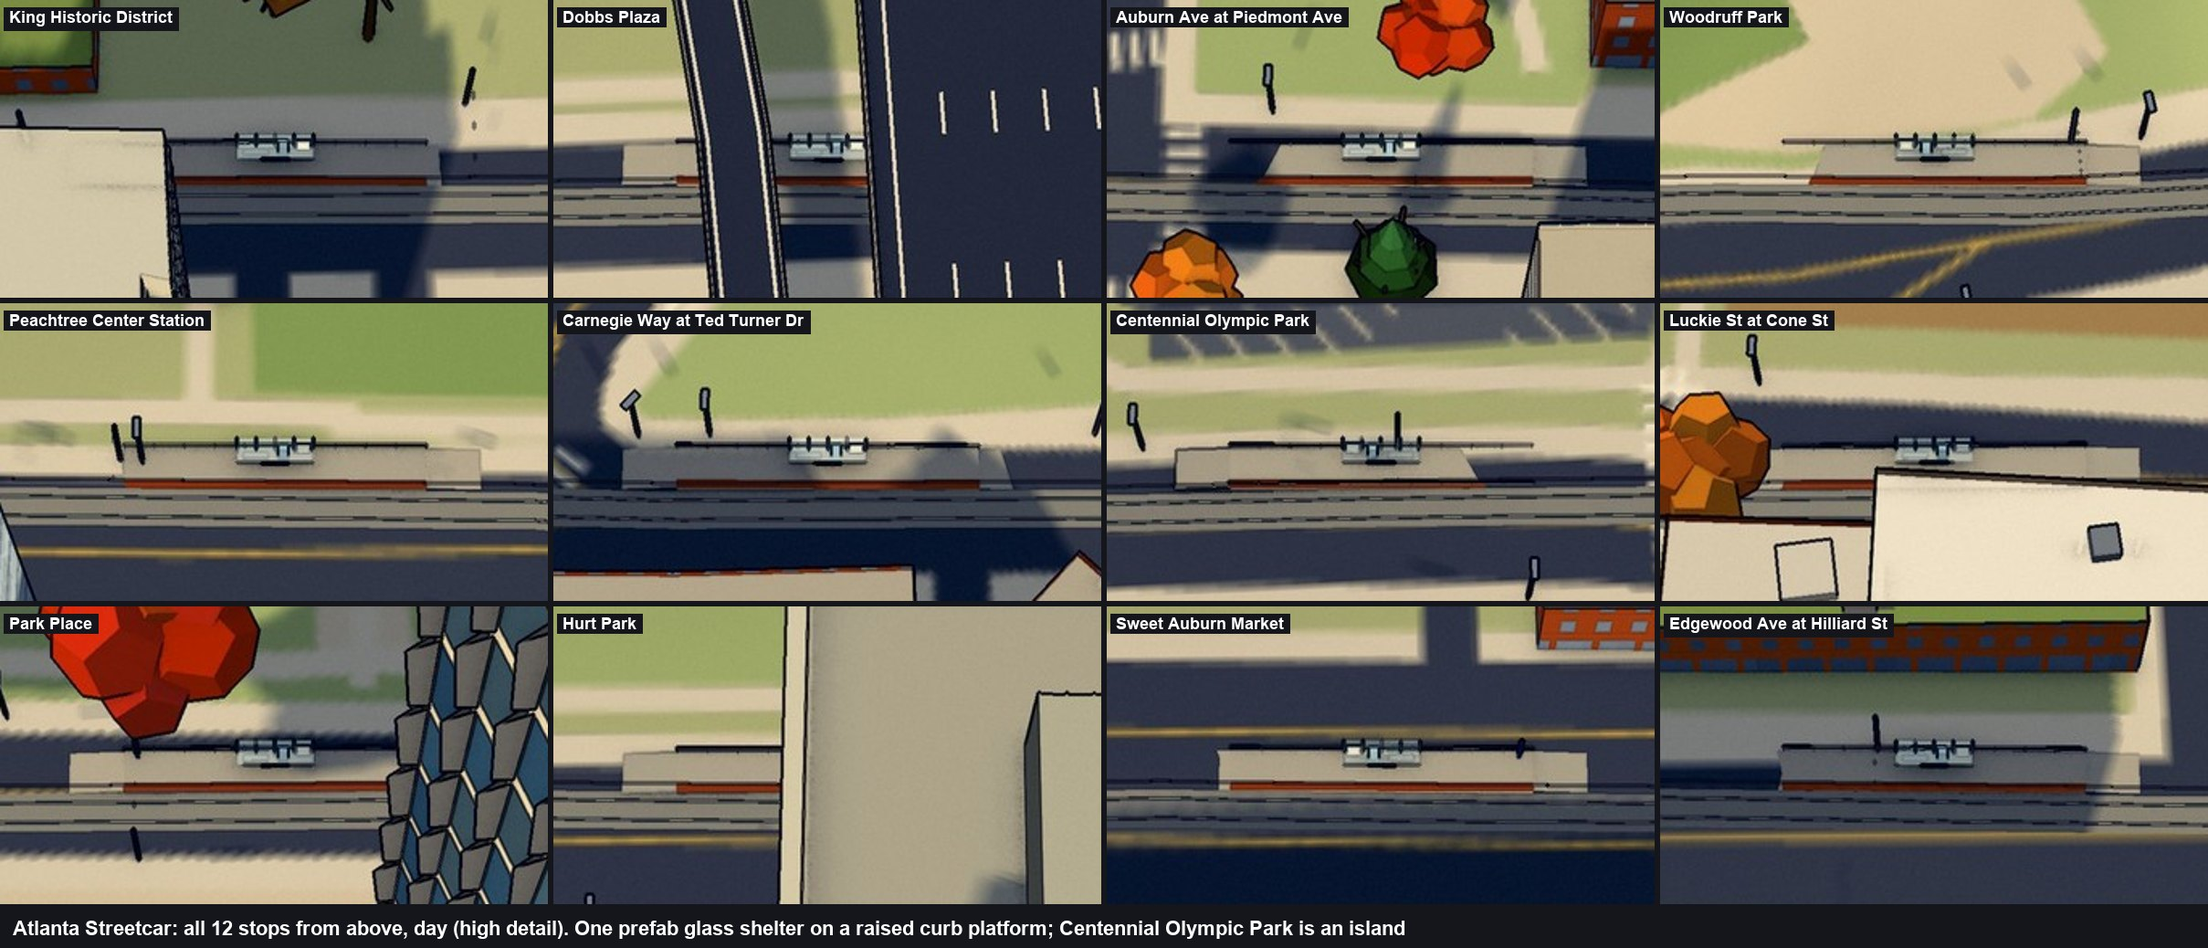
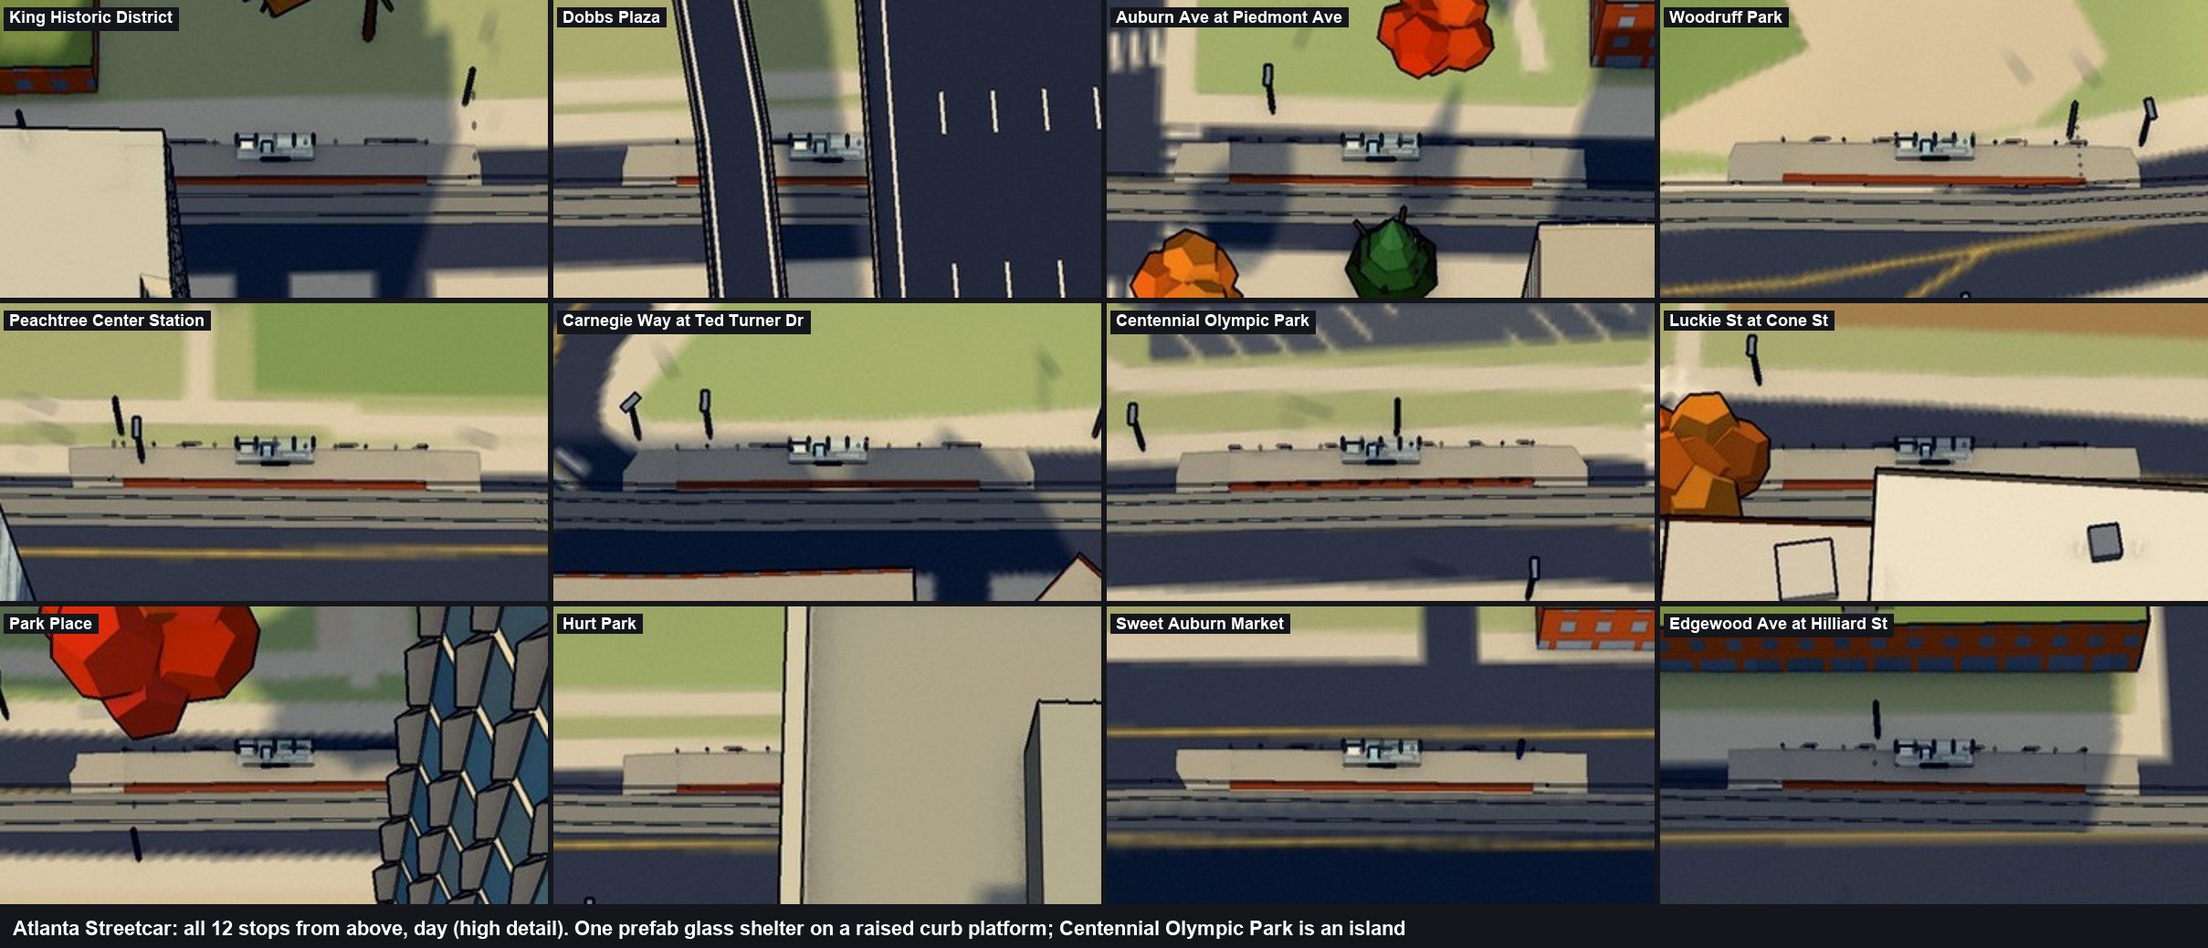
Slide curved-stop platforms clear of the track, follow the street grade, keep poles and layout right

diff --git a/web/src/city/streetcar-stops.ts b/web/src/city/streetcar-stops.ts
@@ -18,7 +18,7 @@ const PYLON = new Set(['PARK PLACE', 'SWEET AUBURN MARKET']);
  * scene x east and z south). The curb-side guess from road centrelines put Sweet
  * Auburn Market on the wrong side, so the observed side wins.
  */
-const SIDE: Record<string, [number, number]> = {
+export const SIDE: Record<string, [number, number]> = {
   'DOBBS PLAZA': [0, -1],
   'AUBURN AVE @ PIEDMONT AVE': [0, -1],
   'WOODRUFF PARK': [0, -1],
@@ -38,6 +38,8 @@ const ISLAND = 'CENTENNIAL OLYMPIC PARK';
 // Street View survey, 2024-2026 (docs/streetcar-city.md). All dimensions are estimates
 // scaled from the ticket machine.
 const PLATFORM = { length: 22, width: 3, height: 0.33, gap: 1.45 };
+const RAMP = 4;
+export const PLATFORM_GAP = PLATFORM.gap;
 const SHELTER = { length: 5.5, depth: 1.7, clear: 2.7 };
 
 /** The streetcar's stops (those its timetable serves on any of its paths), in scene metres. */
@@ -98,8 +100,19 @@ export function platformSites(stops: ReturnType<typeof streetcarStops>, lines: L
     const side = seen
       ? Math.sign(seen[0] * nx + seen[1] * nz) || 1
       : (street?.side ?? (Math.sign((stop.x - t.x) * nx + (stop.z - t.z) * nz) || 1));
-    const off = side * (PLATFORM.gap + PLATFORM.width / 2);
-    return { ...stop, track: t, side, x: t.x + nx * off, z: t.z + nz * off, dx: t.dx, dz: t.dz };
+    // A straight platform beside a curving track closes in on the rails at its ends: slide
+    // it out until the boarding edge (and the ramp tips) clear the track by the full gap.
+    let off = PLATFORM.gap + PLATFORM.width / 2;
+    for (let pass = 0; pass < 6; pass++) {
+      let worst = Infinity;
+      for (let u = -PLATFORM.length / 2 - RAMP; u <= PLATFORM.length / 2 + RAMP + 1e-6; u += 1) {
+        const v = side * (off - PLATFORM.width / 2);
+        worst = Math.min(worst, nearestOnLines(lines, t.x + t.dx * u + nx * v, t.z + t.dz * u + nz * v).d);
+      }
+      if (worst >= PLATFORM.gap - 1e-3) break;
+      off += PLATFORM.gap - worst + 0.02;
+    }
+    return { ...stop, track: t, side, off, x: t.x + nx * side * off, z: t.z + nz * side * off, dx: t.dx, dz: t.dz };
   });
 }
 
@@ -111,6 +124,18 @@ const CONCRETE = '#b9b5ab',
   MACHINE = '#9cc3d6',
   RAILING = '#9aa1a4';
 
+/** True inside any platform (with its ramps) plus a margin: catenary poles keep out. */
+export function platformFootprints(sites: ReturnType<typeof platformSites>, margin = 0.5) {
+  return (x: number, z: number) =>
+    sites.some((site) => {
+      const rx = x - site.x,
+        rz = z - site.z;
+      const u = rx * site.dx + rz * site.dz,
+        v = -rx * site.dz + rz * site.dx;
+      return Math.abs(u) <= PLATFORM.length / 2 + RAMP + margin && Math.abs(v) <= PLATFORM.width / 2 + margin;
+    });
+}
+
 /** Platforms, shelters and pylons for the stops inside one board. */
 export function buildStreetcarStops(sites: ReturnType<typeof platformSites>, bounds: Bounds, height: Height) {
   const body = new Builder(),
@@ -118,38 +143,75 @@ export function buildStreetcarStops(sites: ReturnType<typeof platformSites>, bou
     lit = new Builder();
   const owns = (x: number, z: number) => x >= bounds.minX && x < bounds.maxX && z >= bounds.minZ && z < bounds.maxZ;
   const drawn: string[] = [];
+  const pylons: string[] = [];
   for (const site of sites) {
     if (!owns(site.x, site.z)) continue;
-    const g = height(site.x, site.z);
-    if (g === null) continue;
-    drawn.push(site.name);
     const { dx, dz, side } = site;
-    // Local frame: u along the track, v across (positive away from the track).
+    // Local frame: v across (positive away from the track); r along the platform as a
+    // rider on the track sees it, left to right, whichever way the track runs.
     const nx = -dz * side,
       nz = dx * side;
-    const at = (u: number, v: number): [number, number] => [site.x + dx * u + nx * v, site.z + dz * u + nz * v];
-    const top = g + PLATFORM.height;
+    const at = (r: number, v: number): [number, number] => {
+      const u = -side * r;
+      return [site.x + dx * u + nx * v, site.z + dz * u + nz * v];
+    };
     const W = PLATFORM.width / 2,
       L = PLATFORM.length / 2;
-    const box = (u: number, v: number, lo: number, hi: number, alongHalf: number, acrossHalf: number, color: string, b = body) => {
-      const [x, z] = at(u, v);
-      orientedBox(b, x, z, dx, dz, lo, hi, alongHalf, acrossHalf, color);
-    };
-    box(0, 0, g - 0.2, top, L, W, CONCRETE);
-    // Red tactile band along the boarding edge, and a ramp at each end.
-    box(0, -W + 0.3, top, top + 0.01, L, 0.3, TACTILE);
-    for (const end of [-1, 1]) {
+    const ground = (r: number, v = 0) => height(...at(r, v));
+    const gc = ground(0),
+      gl = ground(-L),
+      gr = ground(L),
+      tl = ground(-L - RAMP),
+      tr = ground(L + RAMP);
+    if (gc === null || gl === null || gr === null) continue;
+    drawn.push(site.name);
+    const top = gc + PLATFORM.height;
+    // The deck follows the street along its length: its top runs 0.33 m above each end.
+    const deck = (r: number) => (r < 0 ? gc + (gl - gc) * (-r / L) : gc + (gr - gc) * (r / L)) + PLATFORM.height;
+    const low = Math.min(gl, gr, gc) - 0.2;
+    for (const [r0, r1] of [
+      [-L, 0],
+      [0, L],
+    ]) {
+      const c = [at(r0, -W), at(r1, -W), at(r1, W), at(r0, W)];
+      const y = [deck(r0), deck(r1), deck(r1), deck(r0)];
+      body.quad([c[0][0], y[0], c[0][1]], [c[3][0], y[3], c[3][1]], [c[2][0], y[2], c[2][1]], [c[1][0], y[1], c[1][1]], CONCRETE);
+      for (const [i, j] of [
+        [0, 1],
+        [2, 3],
+      ])
+        body.quad([c[i][0], low, c[i][1]], [c[i][0], y[i], c[i][1]], [c[j][0], y[j], c[j][1]], [c[j][0], low, c[j][1]], CONCRETE);
+      // Red tactile band along the boarding edge, a few mm proud of the deck.
+      const e0 = at(r0, -W),
+        e1 = at(r1, -W),
+        e2 = at(r1, -W + 0.6),
+        e3 = at(r0, -W + 0.6);
+      body.quad([e0[0], deck(r0) + 0.012, e0[1]], [e3[0], deck(r0) + 0.012, e3[1]], [e2[0], deck(r1) + 0.012, e2[1]], [e1[0], deck(r1) + 0.012, e1[1]], TACTILE);
+    }
+    // Ramps from each end of the deck down to the street at their own tips.
+    for (const [end, tip] of [
+      [-1, tl ?? gl],
+      [1, tr ?? gr],
+    ] as const) {
       const [x0, z0] = at(end * L, -W),
         [x1, z1] = at(end * L, W),
-        [x2, z2] = at(end * (L + 4), W),
-        [x3, z3] = at(end * (L + 4), -W);
-      body.quad([x0, top, z0], [x1, top, z1], [x2, g, z2], [x3, g, z3], CONCRETE);
+        [x2, z2] = at(end * (L + RAMP), W),
+        [x3, z3] = at(end * (L + RAMP), -W);
+      const y = deck(end * L);
+      body.quad([x0, y, z0], [x1, y, z1], [x2, tip, z2], [x3, tip, z3], CONCRETE);
+      body.quad([x0, low, z0], [x0, y, z0], [x1, y, z1], [x1, low, z1], CONCRETE);
     }
+    const box = (r: number, v: number, lo: number, hi: number, alongHalf: number, acrossHalf: number, color: string, b = body) => {
+      const [x, z] = at(r, v);
+      orientedBox(b, x, z, dx, dz, lo, hi, alongHalf, acrossHalf, color);
+    };
     // Pipe guardrail along the back (both long sides on the island platform).
     for (const v of site.name === ISLAND ? [-W + 0.08, W - 0.08] : [W - 0.08]) {
-      box(0, v, top + 1.0, top + 1.05, L, 0.03, RAILING);
-      box(0, v, top + 0.5, top + 0.54, L, 0.025, RAILING);
-      for (let u = -L; u <= L; u += 2.2) box(u, v, top, top + 1.05, 0.03, 0.03, RAILING);
+      for (let r = -L; r <= L + 1e-6; r += 2.2) box(r, v, deck(r), deck(r) + 1.05, 0.03, 0.03, RAILING);
+      for (const h of [0.52, 1.03]) {
+        const [a0, a1] = [at(-L, v), at(L, v)];
+        body.quad([a0[0], deck(-L) + h - 0.02, a0[1]], [a1[0], deck(L) + h - 0.02, a1[1]], [a1[0], deck(L) + h + 0.02, a1[1]], [a0[0], deck(-L) + h + 0.02, a0[1]], RAILING);
+      }
     }
     // Shelter: four bays on round posts, single-slope glass roof cantilevered toward the track.
     const S = SHELTER.length / 2,
@@ -164,7 +226,7 @@ export function buildStreetcarStops(sites: ReturnType<typeof platformSites>, bou
       hf = top + SHELTER.clear;
     glass.quad([r0x, hb, r0z], [r1x, hb, r1z], [r2x, hf, r2z], [r3x, hf, r3z], '#c9e2ea');
     body.quad([r3x, hf - 0.12, r3z], [r2x, hf - 0.12, r2z], [r2x, hf, r2z], [r3x, hf, r3z], STEEL); // fascia
-    // Glass back wall and one end panel.
+    // Glass back wall and the end panel at the rider's left.
     const [b0x, b0z] = at(-S, back + 0.02),
       [b1x, b1z] = at(S, back + 0.02);
     glass.quad([b0x, top + 0.15, b0z], [b1x, top + 0.15, b1z], [b1x, top + 2.2, b1z], [b0x, top + 2.2, b0z], '#c9e2ea');
@@ -173,14 +235,17 @@ export function buildStreetcarStops(sites: ReturnType<typeof platformSites>, bou
     glass.quad([e0x, top + 0.15, e0z], [e1x, top + 0.15, e1z], [e1x, top + 2.2, e1z], [e0x, top + 2.2, e0z], '#c9e2ea');
     // Charcoal name board hung under the front edge.
     box(0, front + 0.05, hf - 0.42, hf - 0.12, 1.0, 0.03, CHARCOAL);
-    // Backlit map panel, ticket machine and perforated bench, left to right.
+    // Left to right as seen from the track: backlit map panel, ticket machine, bench.
     box(-S + 0.7, back - 0.08, top + 0.3, top + 2.0, 0.55, 0.05, STEEL);
     box(-S + 0.7, back - 0.14, top + 0.45, top + 1.85, 0.45, 0.02, '#f2f4f0', lit);
     box(-0.6, back - 0.3, top, top + 1.85, 0.37, 0.22, MACHINE);
     box(1.4, back - 0.35, top + 0.42, top + 0.47, 0.9, 0.22, STEEL);
-    for (const u of [0.6, 2.2]) box(u, back - 0.35, top, top + 0.42, 0.04, 0.18, STEEL);
+    for (const r of [0.6, 2.2]) box(r, back - 0.35, top, top + 0.42, 0.04, 0.18, STEEL);
     // Navy blade pylon at the platform end, where one stands.
-    if (PYLON.has(site.name)) box(L - 1, W - 0.5, top, top + 3.5, 0.15, 0.05, NAVY);
+    if (PYLON.has(site.name)) {
+      box(L - 1, W - 0.5, deck(L - 1), deck(L - 1) + 3.5, 0.15, 0.05, NAVY);
+      pylons.push(site.name);
+    }
   }
   const group = new THREE.Group();
   group.name = 'Atlanta Streetcar stops';
@@ -195,6 +260,7 @@ export function buildStreetcarStops(sites: ReturnType<typeof platformSites>, bou
   return {
     group,
     drawn,
+    pylons,
     setNight(night: number) {
       (panels.material as THREE.MeshLambertMaterial).emissiveIntensity = night * 0.8;
     },

diff --git a/web/src/city/streetcar-stops.test.ts b/web/src/city/streetcar-stops.test.ts
@@ -1,9 +1,9 @@
 import { existsSync, readFileSync } from 'node:fs';
 import { expect, it } from 'vitest';
 import type { RoutesFile } from '../model/types';
-import { pointInRing, type P2 } from '../vignette/geom';
+import { pointInRing, segDist, type P2 } from '../vignette/geom';
 import { streetcarLines } from './streetcar';
-import { buildStreetcarStops, platformSites, streetcarStops } from './streetcar-stops';
+import { buildStreetcarStops, PLATFORM_GAP, platformSites, SIDE, streetcarStops } from './streetcar-stops';
 
 const origin = { lon: -84.3916, lat: 33.7539 };
 const data = (p: string) => new URL('../../public/data/' + p, import.meta.url);
@@ -16,20 +16,34 @@ const load = () => {
   return { rf, stops: streetcarStops(rf, origin, served) };
 };
 
-it.skipIf(!ready)('places all 12 platforms beside the track on their surveyed side, clear of buildings', () => {
+it.skipIf(!ready)('keeps every platform edge clear of the track and every platform out of buildings', () => {
   const { rf, stops } = load();
   expect(stops).toHaveLength(12);
+  // Every served stop has a surveyed side, so a renamed stop cannot fall back silently.
+  for (const s of stops) expect(SIDE[s.name], s.name).toBeDefined();
+  const lines = streetcarLines(rf, origin);
   const vd = JSON.parse(readFileSync(data('scene/downtown/vignette.json')).toString());
-  const sites = platformSites(stops, streetcarLines(rf, origin), vd.roads);
-  const compass: Record<string, [number, number]> = {
-    'DOBBS PLAZA': [0, -1], 'HURT PARK': [0, 1], 'PARK PLACE': [-1, 0], 'PEACHTREE CENTER STATION': [1, 0],
-  };
+  const east = existsSync(data('scene/sweet-auburn/context.json'))
+    ? JSON.parse(readFileSync(data('scene/sweet-auburn/context.json')).toString()).buildings
+    : [];
+  const sites = platformSites(stops, lines, vd.roads);
   for (const site of sites) {
-    // The platform centre stands 2.95 m off the track centreline (1.45 m gap + half its width).
-    expect(Math.hypot(site.x - site.track.x, site.z - site.track.z)).toBeCloseTo(2.95, 3);
-    const want = compass[site.name];
-    if (want) expect((site.x - site.track.x) * want[0] + (site.z - site.track.z) * want[1]).toBeGreaterThan(2);
-    for (const b of vd.buildings) if (b.rings[0]?.length > 2) expect(pointInRing(site.x, site.z, b.rings[0] as P2[])).toBe(false);
+    const nx = -site.dz * site.side,
+      nz = site.dx * site.side;
+    // The boarding edge, every metre along the platform and its ramps, clears the track.
+    for (let u = -15; u <= 15; u += 1) {
+      const v = site.off - 1.5;
+      const x = site.track.x + site.dx * u + nx * v,
+        z = site.track.z + site.dz * u + nz * v;
+      const d = Math.min(...lines.flatMap((l) => l.pts.slice(1).map((b, k) => segDist(x, z, l.pts[k], b))));
+      expect(d, `${site.name} at u=${u}`).toBeGreaterThan(PLATFORM_GAP - 0.01);
+    }
+    // On its surveyed side of the track.
+    const want = SIDE[site.name];
+    expect((site.x - site.track.x) * want[0] + (site.z - site.track.z) * want[1]).toBeGreaterThan(1.5);
+    // Not inside a building on whichever board holds it.
+    for (const b of site.x < 1000 ? vd.buildings : east)
+      if (b.rings[0]?.length > 2) expect(pointInRing(site.x, site.z, b.rings[0] as P2[]), site.name).toBe(false);
   }
 });
 
@@ -40,6 +54,8 @@ it.skipIf(!ready)('splits the stops between boards at x = 1000 with none lost or
   const east = buildStreetcarStops(sites, { minX: 1000, maxX: 1800, minZ: -1300, maxZ: 700 }, () => 0);
   expect([...west.drawn, ...east.drawn].sort()).toEqual(stops.map((s) => s.name).sort());
   expect(east.drawn.sort()).toEqual(['DOBBS PLAZA', 'EDGEWOOD AVE @ HILLIARD ST', 'KING HISTORIC DISTRICT', 'SWEET AUBURN MARKET'].sort());
+  // Navy pylons only where Street View showed one.
+  expect([...west.pylons, ...east.pylons].sort()).toEqual(['PARK PLACE', 'SWEET AUBURN MARKET']);
   west.dispose();
   east.dispose();
 });

diff --git a/web/src/city/city.ts b/web/src/city/city.ts
@@ -49,7 +49,7 @@ import { loadArterials } from './arterials';
 import { cityRoadHeight } from './road-height';
 import { buildStreetcarTrack, poleBlocked, roadSurface, streetcarLines, withoutTram } from './streetcar';
 import { createStreetcarCars } from './streetcar-cars';
-import { buildStreetcarStops, platformSites, streetcarStops } from './streetcar-stops';
+import { buildStreetcarStops, platformFootprints, platformSites, streetcarStops } from './streetcar-stops';
 import { CityFreight } from './freight';
 import { CityBuses, busRuns } from './buses';
 import type { LiveBus } from '../model/types';
@@ -592,10 +592,12 @@ export async function createCity(container: HTMLElement, rf: RoutesFile, quality
       const ground = terrain ? terrain.groundAt : flat;
       const height = roadSurface(vd.roads, cityRoadHeight(vd, ground, transport?.deckAt), ground);
       const lines = streetcarLines(rf, manifest.origin);
-      streetcarDowntown = buildStreetcarTrack(lines, b, height, poleBlocked(vd.roads, vd.buildings));
+      const sites = platformSites(streetcarStopList(), lines, vd.roads);
+      const blocked = poleBlocked(vd.roads, vd.buildings), onPlatform = platformFootprints(sites);
+      streetcarDowntown = buildStreetcarTrack(lines, b, height, (x, z) => blocked(x, z) || onPlatform(x, z));
       streetcarSurface.push({ bounds: b, height });
       world.group.add(streetcarDowntown.group);
-      stopsDowntown = buildStreetcarStops(platformSites(streetcarStopList(), lines, vd.roads), b, height);
+      stopsDowntown = buildStreetcarStops(sites, b, height);
       world.group.add(stopsDowntown.group);
     });
     await build('MARTA', () => {
@@ -887,11 +889,14 @@ export async function createCity(container: HTMLElement, rf: RoutesFile, quality
       {
         const board = area.connectorBoard;
         const surface = roadSurface(board.city.roads, board.roadHeight, area.groundAt);
-        const track = buildStreetcarTrack(streetcarLines(rf, manifest.origin), area.bounds, surface, poleBlocked(board.city.roads, board.city.buildings));
+        const lines = streetcarLines(rf, manifest.origin);
+        const sites = platformSites(streetcarStopList(), lines, board.city.roads);
+        const blocked = poleBlocked(board.city.roads, board.city.buildings), onPlatform = platformFootprints(sites);
+        const track = buildStreetcarTrack(lines, area.bounds, surface, (x, z) => blocked(x, z) || onPlatform(x, z));
         const entry = { bounds: area.bounds, height: surface };
         streetcarSurface.push(entry);
         area.group.add(track.group);
-        const stops = buildStreetcarStops(platformSites(streetcarStopList(), streetcarLines(rf, manifest.origin), board.city.roads), area.bounds, surface);
+        const stops = buildStreetcarStops(sites, area.bounds, surface);
         area.group.add(stops.group);
         northStops = stops;
         const disposeArea = area.dispose.bind(area);

diff --git a/docs/streetcar-city.md b/docs/streetcar-city.md
@@ -46,6 +46,8 @@ City draws exactly that. Navy name pylons, about 3.5 m tall, are drawn only at P
 
 The side of the street comes from the survey for every stop. Inferring it from road centrelines put Sweet Auburn Market on the wrong side, because the OSM street centreline sits about a lane from the GTFS track there. Each platform centre stands 2.95 m from the track: a 1.45 m gap plus half its width.
 
-At night only the map panels glow. No canopy light was visible by day, and no night imagery was found, so the shelters are otherwise unlit. All dimensions are estimates scaled from the ticket machine (about 0.75 × 1.85 m). The name boards carry no text. [Survey notes and panoramas](https://www.google.com/maps/@?api=1&map_action=pano&viewpoint=33.75504,-84.38821&heading=345&pitch=0&fov=90)
+At night only the map panels glow. No canopy light was visible by day, and no night imagery was found, so the shelters are otherwise unlit. All dimensions are estimates scaled from the ticket machine (about 0.75 × 1.85 m). The name boards carry no text. Street View panoramas, one per stop with capture dates (a second heading was checked at each): [Dobbs Plaza (Mar 2025)](https://www.google.com/maps/@?api=1&map_action=pano&viewpoint=33.75556,-84.37879&heading=0&pitch=0&fov=90) · [Auburn Ave at Piedmont Ave (Mar 2025)](https://www.google.com/maps/@?api=1&map_action=pano&viewpoint=33.75552,-84.38202&heading=0&pitch=0&fov=90) · [Woodruff Park (Mar 2025)](https://www.google.com/maps/@?api=1&map_action=pano&viewpoint=33.75602,-84.3882&heading=62&pitch=0&fov=90) · [Peachtree Center Station (Nov 2025)](https://www.google.com/maps/@?api=1&map_action=pano&viewpoint=33.75806,-84.38753&heading=90&pitch=0&fov=90) · [Carnegie Way at Ted Turner Dr (Apr 2026)](https://www.google.com/maps/@?api=1&map_action=pano&viewpoint=33.75957,-84.38957&heading=0&pitch=0&fov=90) · [Centennial Olympic Park (Apr 2026)](https://www.google.com/maps/@?api=1&map_action=pano&viewpoint=33.75955,-84.39212&heading=138&pitch=0&fov=90) · [Luckie St at Cone St (Apr 2026)](https://www.google.com/maps/@?api=1&map_action=pano&viewpoint=33.75806,-84.39031&heading=135&pitch=0&fov=90) · [Park Place (Mar 2025)](https://www.google.com/maps/@?api=1&map_action=pano&viewpoint=33.75504,-84.38821&heading=345&pitch=0&fov=90) · [Hurt Park (Jul 2024)](https://www.google.com/maps/@?api=1&map_action=pano&viewpoint=33.75448,-84.38528&heading=270&pitch=0&fov=90) · [Sweet Auburn Market (Nov 2025)](https://www.google.com/maps/@?api=1&map_action=pano&viewpoint=33.75441,-84.37985&heading=270&pitch=0&fov=90) · [Edgewood Ave at Hilliard St (Mar 2025)](https://www.google.com/maps/@?api=1&map_action=pano&viewpoint=33.75441,-84.37638&heading=160&pitch=0&fov=90) · [King Historic District (Mar 2025)](https://www.google.com/maps/@?api=1&map_action=pano&viewpoint=33.75551,-84.37496&heading=0&pitch=0&fov=90)
 
-Tests check that all 12 stops are placed 2.95 m from the track, on their surveyed side and outside buildings, and that the x = 1000 seam splits them between the boards with none lost or doubled. [All 12 stops, day](log/ui/streetcar/stops-gallery-day.jpg) · [All 12 stops, night](log/ui/streetcar/stops-gallery-night.jpg)
+Platforms on a curve are slid outward until the boarding edge and ramp tips clear the track by the full 1.45 m. This affects Woodruff Park (3.51 m from the track), Hurt Park (3.29 m) and Carnegie Way (3.09 m). The deck and ramps follow the street height at each end, so a stop on a grade neither floats nor sinks. Catenary poles keep out of every platform. The shelter's furniture always reads map panel, ticket machine, bench from left to right as seen from the track, whichever way the track runs.
+
+Tests check that all 12 stops are placed 2.95 m from the track, on their surveyed side and outside buildings, and that the x = 1000 seam splits them between the boards with none lost or doubled. Gallery cameras: each tile targets its platform centre, with the bearing from the track toward the platform, tilt 20°, at 13:31 and 23:28 ET on November 20. [All 12 stops, day](log/ui/streetcar/stops-gallery-day.jpg) · [All 12 stops, night](log/ui/streetcar/stops-gallery-night.jpg)
